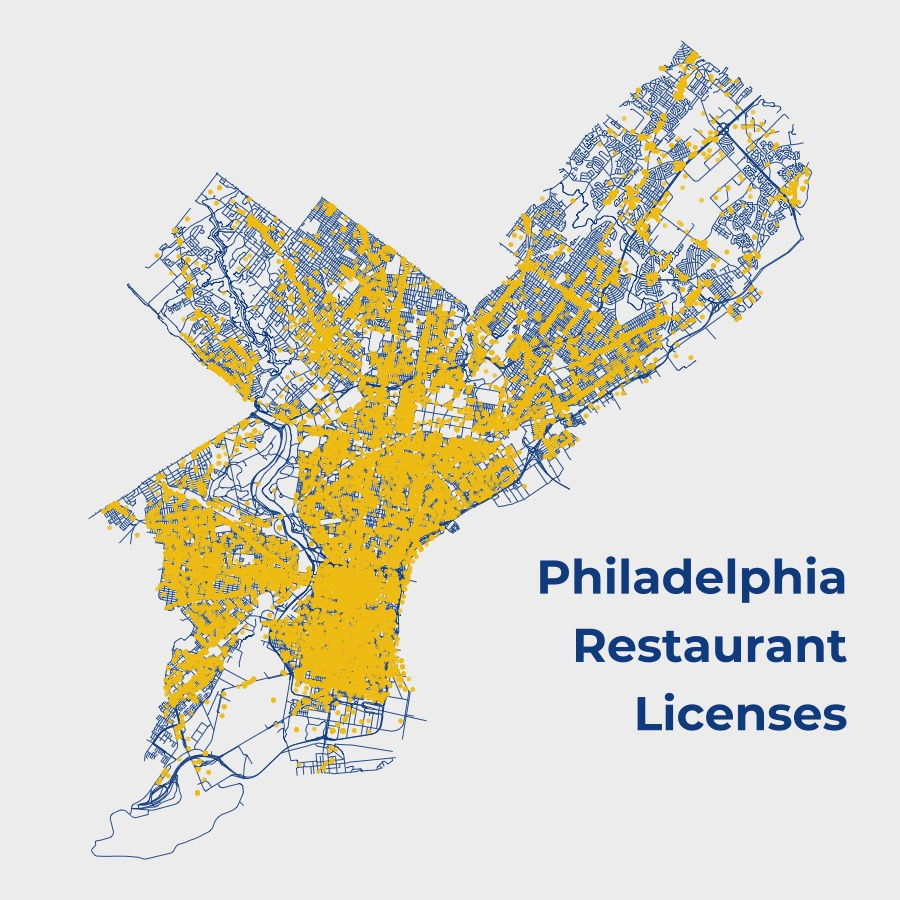
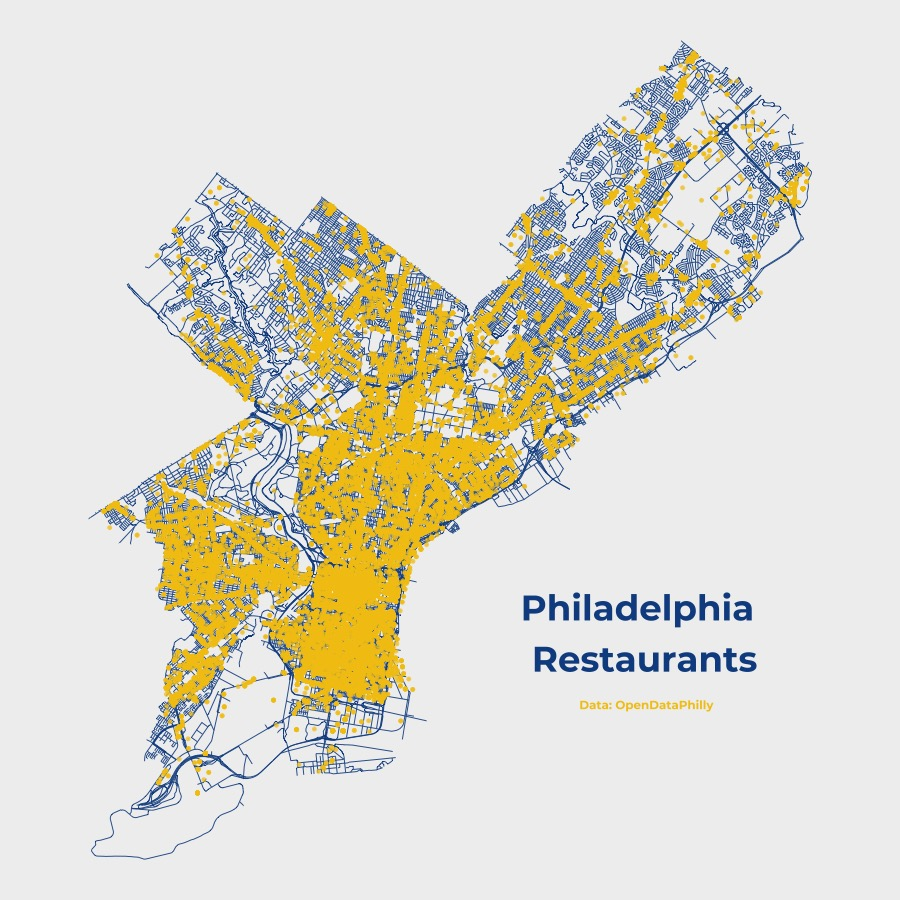
Add files via upload
day 1

Changed region(s): [[0.56, 0.6222, 0.9644, 0.7467], [0.6222, 0.7778, 0.9644, 0.8089]]

diff --git a/README.md b/README.md
@@ -3,13 +3,11 @@ Creating maps throughout November, 2022. See [here](https://30daymapchallenge.co
 
 I might update this repository intermittently throughout November, but to see the most recent maps, check out my progress on [Twitter](https://twitter.com/_helenschmidt_). All maps will be included here at the end of the month.
 
-<!--
-
 ### 1. Points 
 ***
 ![](https://github.com/hschmidt12/30DayMapChallenge-2022/blob/main/maps/day1_points.jpeg?raw=true)
 
-See script [here](https://github.com/hschmidt12/30DayMapChallenge-2022/blob/main/scripts/day1_points.R). -->
+See script [here](https://github.com/hschmidt12/30DayMapChallenge-2022/blob/main/scripts/day1_points.R). 
 
 
 
